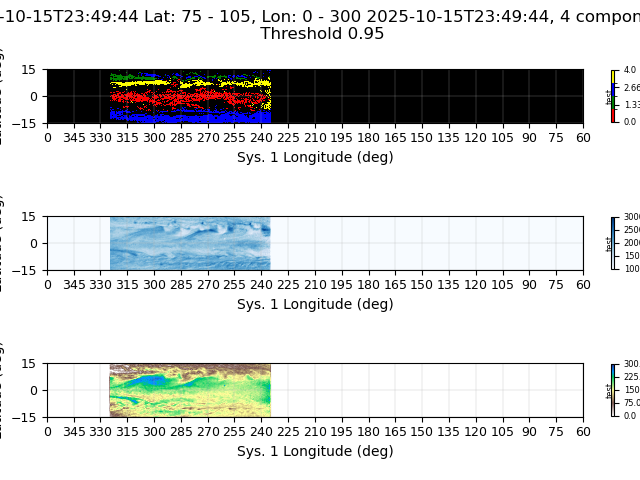
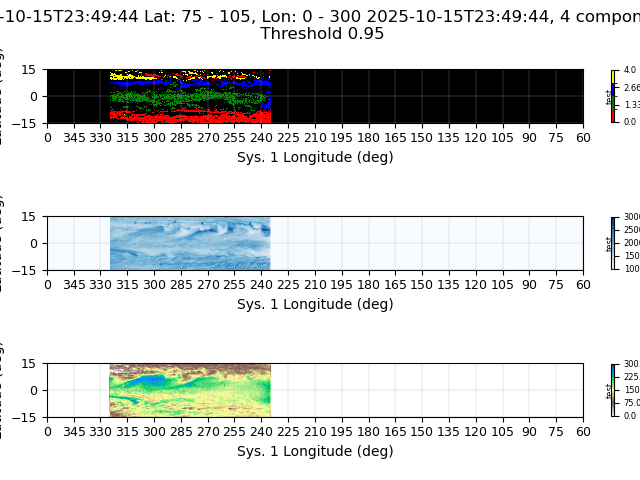
run clusterings on same range for comparison

Changed region(s): [[0.1562, 0.1562, 0.4375, 0.2812]]

diff --git a/scripts/processes.py b/scripts/processes.py
@@ -25,6 +25,11 @@ def output_cluster_map_and_plot(date, keywords, param_ranges,
     MP.create_cluster_map(axis[0], n_comp, pred, input_arr, subset_shape, latRng, lngRng, cmap, cm_num)
     PL.create_cluster_plot(axis[1],  keywords, 0, 1, input_arr, pred,  n_comp, cov_type, latRng, lngRng, cmap, cm_num)
     fig.suptitle(create_plot_title(keywords, latRng, lngRng, n_comp, threshold))
+    indices = input_arr[:, input_arr.shape[1] - 1]
+
+    STAT.get_all_stats(pred, keywords, indices, n_comp, latRng, lngRng, cm_num)
+    
+
     output_file_name = create_file_name(keywords, latRng, lngRng, n_comp, "map_plot", cm_num, threshold)
     fig.savefig(output_file_name)
 
@@ -40,15 +45,20 @@ def output_cluster_map_and_plots(date, keywords, param_ranges,
     print("plotting...")
     indices = input_arr[:, input_arr.shape[1] - 1]
 
+
+    STAT.get_all_stats(pred, keywords, indices, n_comp, latRng, lngRng, cm_num)
     #get statistics
     
-    cloud_map = pre.get_patch("Cld", latRng, lngRng, cm_num)
-    amm_map = pre.get_patch("NH3", latRng, lngRng, cm_num)
-    AOI_map = pre.get_patch("AOI", latRng, lngRng, cm_num)
-    CI_map = pre.get_patch("CI", latRng, lngRng, cm_num)
+    #cloud_map = pre.get_patch("Cld", latRng, lngRng, cm_num)
+    #amm_map = pre.get_patch("NH3", latRng, lngRng, cm_num)
+    #AOI_map = pre.get_patch("AOI", latRng, lngRng, cm_num)
+    #CI_map = pre.get_patch("CI", latRng, lngRng, cm_num)
 
   
-    print(STAT.get_cluster_stat(pred, cloud_map, indices, n_comp))
+    #STAT.get_cluster_stat(pred, cloud_map, indices, n_comp, "Cloud Pressure")
+    #STAT.get_cluster_stat(pred, amm_map, indices, n_comp, "Ammonia Content")
+    #STAT.get_cluster_stat(pred, AOI_map, indices, n_comp, "AOI Index")
+    #STAT.get_cluster_stat(pred, CI_map, indices, n_comp, "CI index")
 
 
     #create figures
@@ -138,10 +148,17 @@ def create_map_comparison(date, keywords, param_ranges,
 #output_cluster_map("20251214", ["NH3", "PCld"], [[0, 300], [1000, 3000]], 5)
 #get correct filters
 #create_map_comparison("20251016", ["NH3", "PCld", "AOI", "CI"], [[100, 300], [1500,  2500], [0, 1], [0, 1]], [75, 105], [0, 200])#
+
+# longitude 0 - 200, latitude 75 - 105
+
 #output_cluster_map_and_plots("20251016", ["NH3", "PCld", "AOI", "CI"], [[0, 300], [1000,  3000], [0, 1], [0, 1]], [75, 105], [0, 200], 4)
+output_cluster_map_and_plot("20251016", ["NH3", "PCld"], [[0, 300], [1000,  3000]], [75, 105], [0, 200], 4)
+#create_map_comparison("20251016", ["AOI", "CI"], [[0, 1], [0, 1]], [75, 105], [0, 200])
+#output_cluster_map_and_plot("20251016", ["AOI", "CI"], [[0, 1], [0, 1]], [75, 105], [0, 200], 4)
+
 #output_cluster_map_and_plots("20251016", ["PCld", "NH3", "AOI", "CI"], [[1000, 3000], [0,  300], [0, 1], [0, 1]], [85, 95], [0, 50], 4)
-output_cluster_map_and_plots("20251016", ["PCld", "NH3", "AOI", "CI"], [[1000, 3000], [0,  300], [0, 1], [0, 1]], [75, 105], [0, 300], 4)
-create_map_comparison("20251016", ["PCld", "NH3", "AOI", "CI"], [[1000, 3000], [0,  300], [0, 1], [0, 1]], [75, 105], [0, 300], 4)
+#output_cluster_map_and_plots("20251016", ["PCld", "NH3", "AOI", "CI"], [[1000, 3000], [0,  300], [0, 1], [0, 1]], [75, 105], [0, 300], 4)
+#create_map_comparison("20251016", ["PCld", "NH3", "AOI", "CI"], [[1000, 3000], [0,  300], [0, 1], [0, 1]], [75, 105], [0, 300], 4)
 
 #create_map_comparison("20251016", ["NH3", "PCld"], [[100, 300], [1500,  2500]], [75, 105], [0, 200])
 #create_map_comparison("20251016", ["PCld", "NH3"], [[1000,  3000], [0, 300]], [75, 105], [0, 200])

diff --git a/scripts/cluster_stats.py b/scripts/cluster_stats.py
@@ -1,6 +1,8 @@
 
 import numpy as np
-def get_stat(cluster_arr, dim_arr, indices, n_clusters):
+import scripts.preprocessing.preprocessing as pre
+
+def get_stat(cluster_arr, dim_arr, indices, n_clusters, dim_name):
     '''
         Purpose: Takes a cluster and outputs the mean and standard deviation of that cluster in a certain dimension
 
@@ -25,14 +27,29 @@ def get_stat(cluster_arr, dim_arr, indices, n_clusters):
         # contains indices of selected cluster
         cluster_indices = indices[cluster_mask]
 
-        print(cluster_indices)
+    
         clustered_dim = dim_arr[cluster_indices]
-        
-        res.append([np.mean(clustered_dim), np.std(clustered_dim)])
+        mean = np.mean(clustered_dim)
+        std = np.std(clustered_dim)
+        print(f"{dim_name}: Cluster {i} mean: {mean:.2f}, std: {std:.2f} ")
+        res.append([mean, std ])
     return res
 
+def get_all_stats(pred, keywords, indices, n_comp, latRng, lngRng, cm_num):
+    cluster_arr = np.array(pred)
+    indices = indices.astype(np.int64)
+    if(not (cluster_arr.shape == indices.shape) and cluster_arr.ndim == 1):
+        raise TypeError("Index array length must match cluster array length")
     
-def get_cluster_stat(cluster_arr, dim_arr, indices, n_clusters):
+    
+    for key in keywords:
+        map =  pre.get_patch(key, latRng, lngRng, cm_num)
+        dim_arr = map.flatten()
+        get_stat(cluster_arr, dim_arr, indices, n_comp, key)
+
+    
+
+def get_cluster_stat(cluster_arr, dim_arr, indices, n_clusters, dim_name):
     # flatten arrays here
     '''
     Purpose: Preprocesses data and passes it into a function to generate list of means and standard deviations for the clusters
@@ -56,7 +73,7 @@ def get_cluster_stat(cluster_arr, dim_arr, indices, n_clusters):
     if(not (cluster_arr.shape == indices.shape) and cluster_arr.ndim == 1):
         raise TypeError("Index array length must match cluster array length")
     dim_arr = dim_arr.flatten()
-    return get_stat(cluster_arr, dim_arr, indices, n_clusters)
+    return get_stat(cluster_arr, dim_arr, indices, n_clusters, dim_name)
 
 
 
